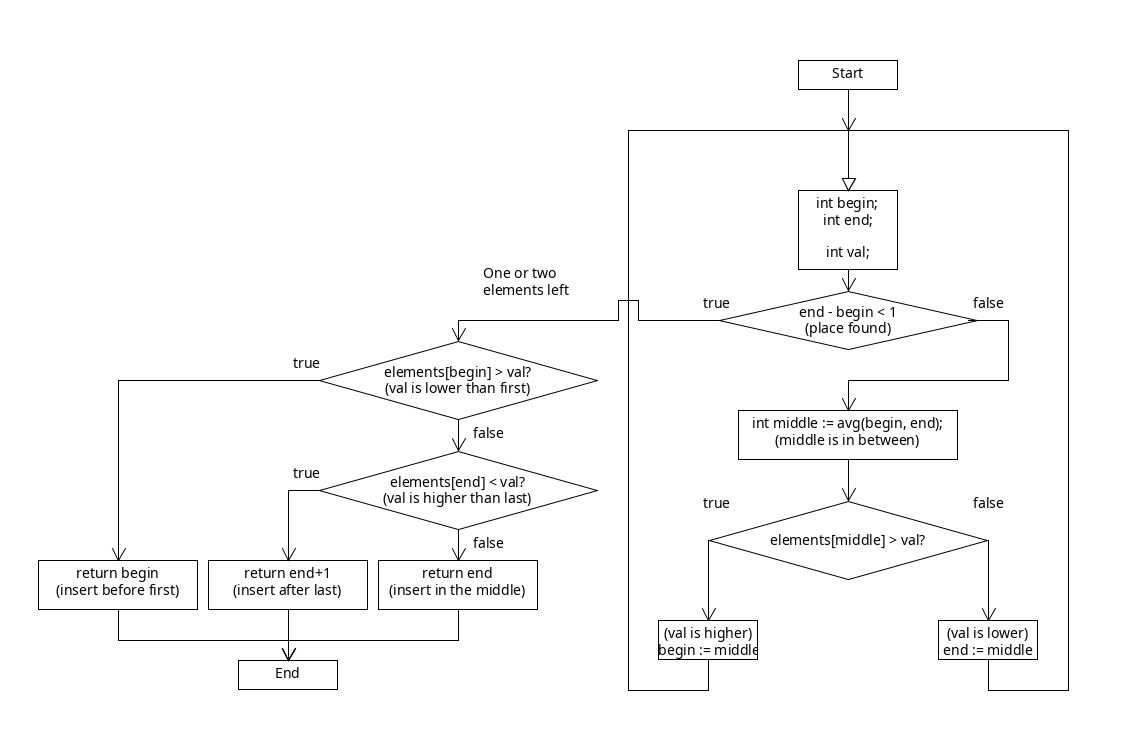
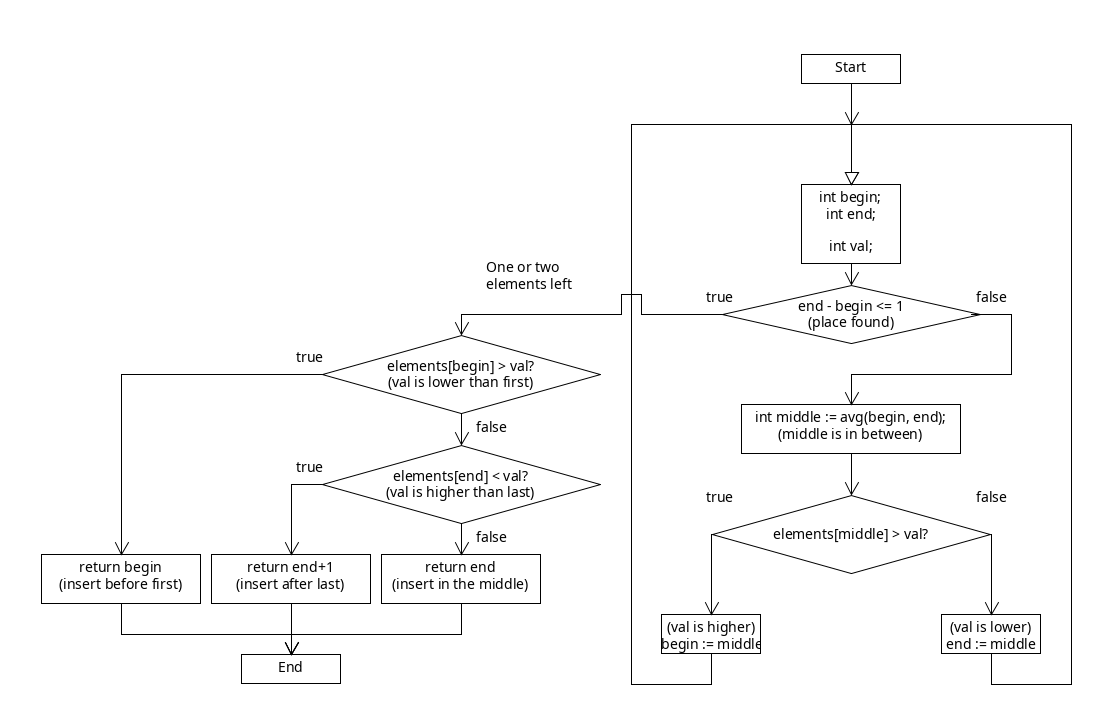
09: Implemented operational sorted set.

diff --git a/src/Set.h b/src/Set.h
@@ -2,25 +2,34 @@
 #define SET
 
 #include "includes.h"
+#include <cstdint>
 
 template<typename T> class Set{
 protected:
-    int capacity;
-    int size;
+    uint32_t capacity;
+    uint32_t size;
     T* elements;
 
     void grow(){
-        capacity *= 2;
-        T* new_elements = new T[capacity];
-        for(int i = 0; i<size; ++i)
+        T* new_elements = new T[capacity*2];
+        for(int i = 0; i<capacity; ++i)
             new_elements[i] = elements[i];
+        capacity *= 2;
 
         delete[] elements;
         elements = new_elements;
     }
+    void removeAt(uint32_t ind){
+        --size;
+        for(int i = ind; i < size; ++i){
+            elements[i] = elements[i+1];
+        }
+    }
 
 public:
-    Set():size(0), capacity(8){ elements = new T[capacity];};    
+    Set(uint32_t capacity = 8):size(0), capacity(capacity){ 
+        elements = new T[capacity];
+    }
     ~Set(){delete[] elements;}
 
     T at(int ind) const{
@@ -31,29 +40,34 @@ public:
 
     int getSize() const{ return size; }
 
+    bool insertAt(const T& val, int ind){
+        if(ind < 0 || ind > size || check(val) != -1) 
+            return false;
 
-    bool add(const T val){
-        if(check(val) != -1) return false;
-
-        if(size == capacity) grow(); 
-        elements[size++] = val;
+        if(size++ == capacity) grow(); 
+        for(int i = size-1; i > ind; --i){
+            elements[i] = elements[i-1];
+        }
+        elements[ind] = val;
 
         return true;
     }
 
-    bool del(const T val){
+
+    bool add(const T& val){
+        return insertAt(val, size);
+    }
+
+    bool del(const T& val){
         int ind = check(val);
         if(ind == -1) return false;
 
-        --size;
-        for(int i = ind; i < size; ++i){
-            elements[i] = elements[i+1];
-        }
+        removeAt(ind);
         return true;
         
     }
     
-    int check(const T val) const{
+    int check(const T& val) const{
         for(int i = 0; i < size; ++i)
             if(elements[i] == val)  return i;
         return -1;

diff --git a/src/SortedSet.h b/src/SortedSet.h
@@ -1,0 +1,61 @@
+#ifndef SORTEDSET
+#define SORTEDSET
+#include "Set.h"
+
+
+template <typename T> class SortedSet : public Set<T>{
+protected:
+    uint32_t getNewInd(const T& val, uint32_t begin, uint32_t end){
+        if(end - begin <= 1){    //  One or two elements left.
+            if(!Set<T>::size) return 0;
+            if(val < Set<T>::elements[begin])   //  val < first
+                return begin;
+            if(val > Set<T>::elements[end])   //  val > last
+                return end+1;
+            return end;
+        }
+        else{   //  Continue splitting.
+            uint32_t avg = begin + (end - begin)/2;
+            return (val > Set<T>::elements[avg])? 
+                getNewInd(val, avg, end):
+                getNewInd(val, begin, avg);
+        }
+    }
+
+    uint32_t find(const T& val, uint32_t begin, uint32_t end){
+        if(end - begin < 1){    //  One or two elements left.
+            if(Set<T>::elements[begin] == val)   //  val == first
+                return begin;
+            if(Set<T>::elements[end] == val)   //  val == last
+                return end;
+            return -1;
+        }
+        else{   //  Continue splitting.
+            uint32_t avg = begin + (end - begin)/2;
+            return (val < Set<T>::elements[avg])? 
+                getNewInd(val, avg, end):
+                getNewInd(val, begin, avg);
+        }
+    }
+public:
+    bool add(const T& val){
+        return Set<T>::insertAt(val, 
+            Set<T>::size?
+                getNewInd(val, 0, Set<T>::size-1):
+                0);
+
+    }
+    bool del(const T& val){
+        int ind = check(val);
+        if(ind == -1) return false;
+
+        Set<T>::removeAt(ind);
+        return true;
+        
+    }
+    bool check(const T& val) const{
+        return find(val, 0, Set<T>::size-1);
+    }
+};
+
+#endif

diff --git a/src/main.cpp b/src/main.cpp
@@ -1,8 +1,9 @@
-#include "IPv4PrefixSet.h"
+#include "SortedSet.h"
 //  Check for checks
 //  Check for requirements
 int main(){
 
+    /*
     IPv4PrefixSet IPset;
 
     //  First two bytes the same.
@@ -23,6 +24,21 @@ int main(){
     // std::cout<<std::hex<<pref.base<<std::endl;
     // std::cout<<std::hex<<pref.getMask()<<std::endl;
     // std::cout<<std::hex<<pref.masked()<<std::endl;
+    */
+
+
+    SortedSet<int> set;
+
+    set.add(1);
+    set.add(2);
+    set.add(2);
+    set.add(5);
+    set.add(4);
+    set.add(6);
+    set.add(3);
+
+    for(int i = 0; i < set.getSize(); ++i)
+        std::cout<<set.at(i)<<std::endl;
 
     return EXIT_SUCCESS;
 }
